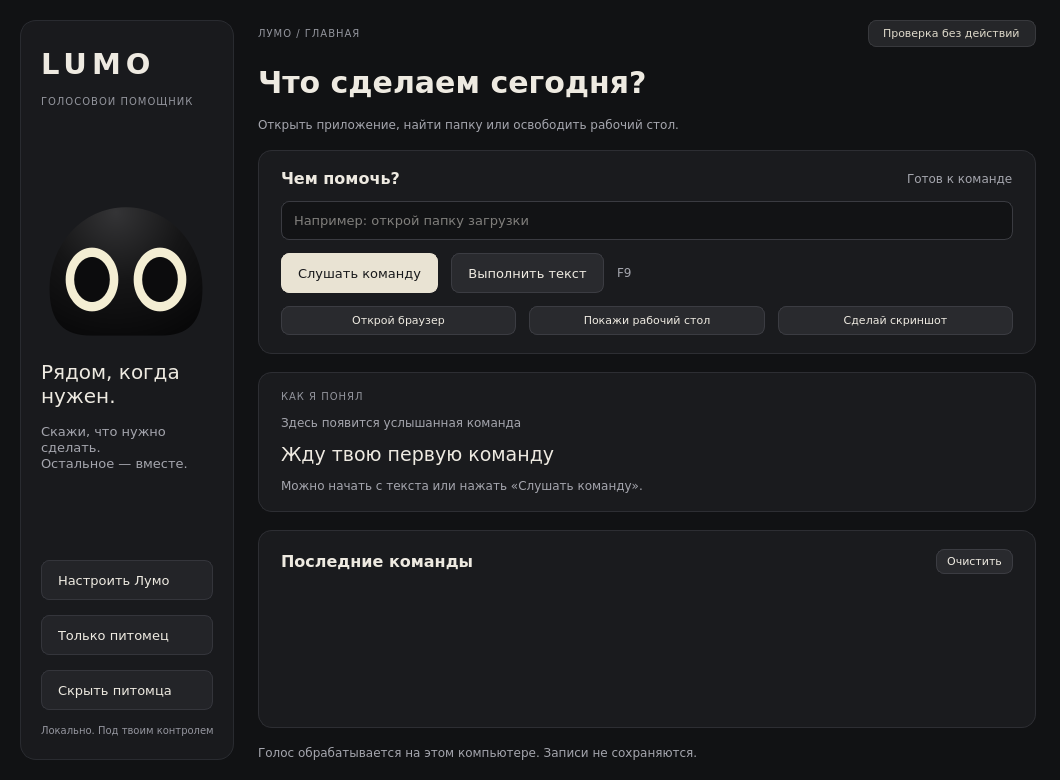
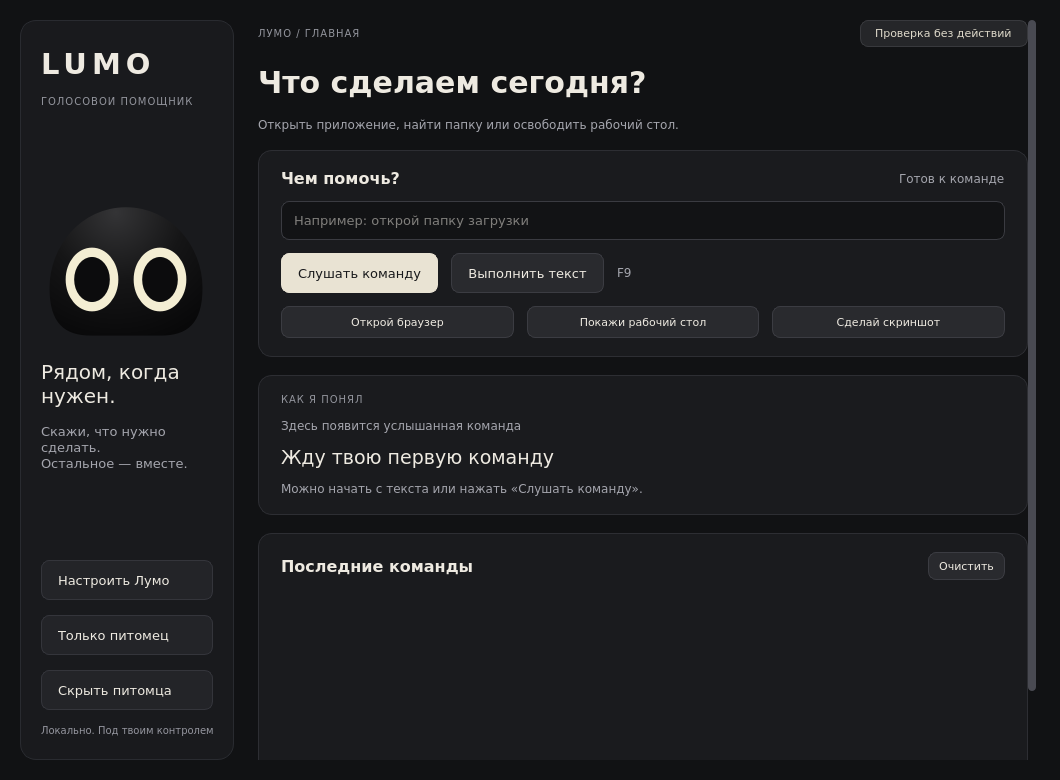
Keep native controls readable when the main window is compact

diff --git a/src/voice_control_pc/gui.py b/src/voice_control_pc/gui.py
@@ -23,6 +23,7 @@ from PySide6.QtWidgets import (
     QMainWindow,
     QMessageBox,
     QPushButton,
+    QScrollArea,
     QVBoxLayout,
     QWidget,
 )
@@ -170,9 +171,16 @@ class LumoWindow(QMainWindow):
         foot.setStyleSheet("font-size:10px; color:#94959e;")
         left.addWidget(foot)
         outer.addWidget(sidebar)
-        content = QVBoxLayout()
+        scroll = QScrollArea()
+        scroll.setWidgetResizable(True)
+        scroll.setFrameShape(QFrame.Shape.NoFrame)
+        scroll.setHorizontalScrollBarPolicy(Qt.ScrollBarPolicy.ScrollBarAlwaysOff)
+        page = QWidget()
+        content = QVBoxLayout(page)
+        content.setContentsMargins(0, 0, 0, 0)
         content.setSpacing(18)
-        outer.addLayout(content, 1)
+        scroll.setWidget(page)
+        outer.addWidget(scroll, 1)
         head = QHBoxLayout()
         eyebrow = QLabel("ЛУМО / ГЛАВНАЯ")
         eyebrow.setObjectName("eyebrow")

diff --git a/src/voice_control_pc/ui/theme.py b/src/voice_control_pc/ui/theme.py
@@ -27,7 +27,7 @@ QSpinBox::up-arrow { image: url('@CHEVRON_UP@'); width: 10px; height: 6px; }
 QSpinBox::down-arrow, QComboBox::down-arrow { image: url('@CHEVRON_DOWN@'); width: 10px; height: 6px; }
 QComboBox::drop-down { width: 28px; border: 0; background: #303136; border-top-right-radius: 7px; border-bottom-right-radius: 7px; }
 QComboBox QAbstractItemView { background: #222327; color: #eeeae1; selection-background-color: #45433c; }
-QPushButton { background: #292a2e; border: 1px solid #3b3c42; border-radius: 8px; padding: 11px 16px; font-weight: 500; }
+QPushButton { background: #292a2e; border: 1px solid #3b3c42; border-radius: 8px; padding: 11px 16px; font-weight: 500; min-height: 16px; }
 QPushButton:hover { background: #37383e; border-color: #65666e; }
 QPushButton:pressed { background: #414249; }
 QPushButton:disabled { color: #686971; background: #202125; border-color: #2b2c31; }
